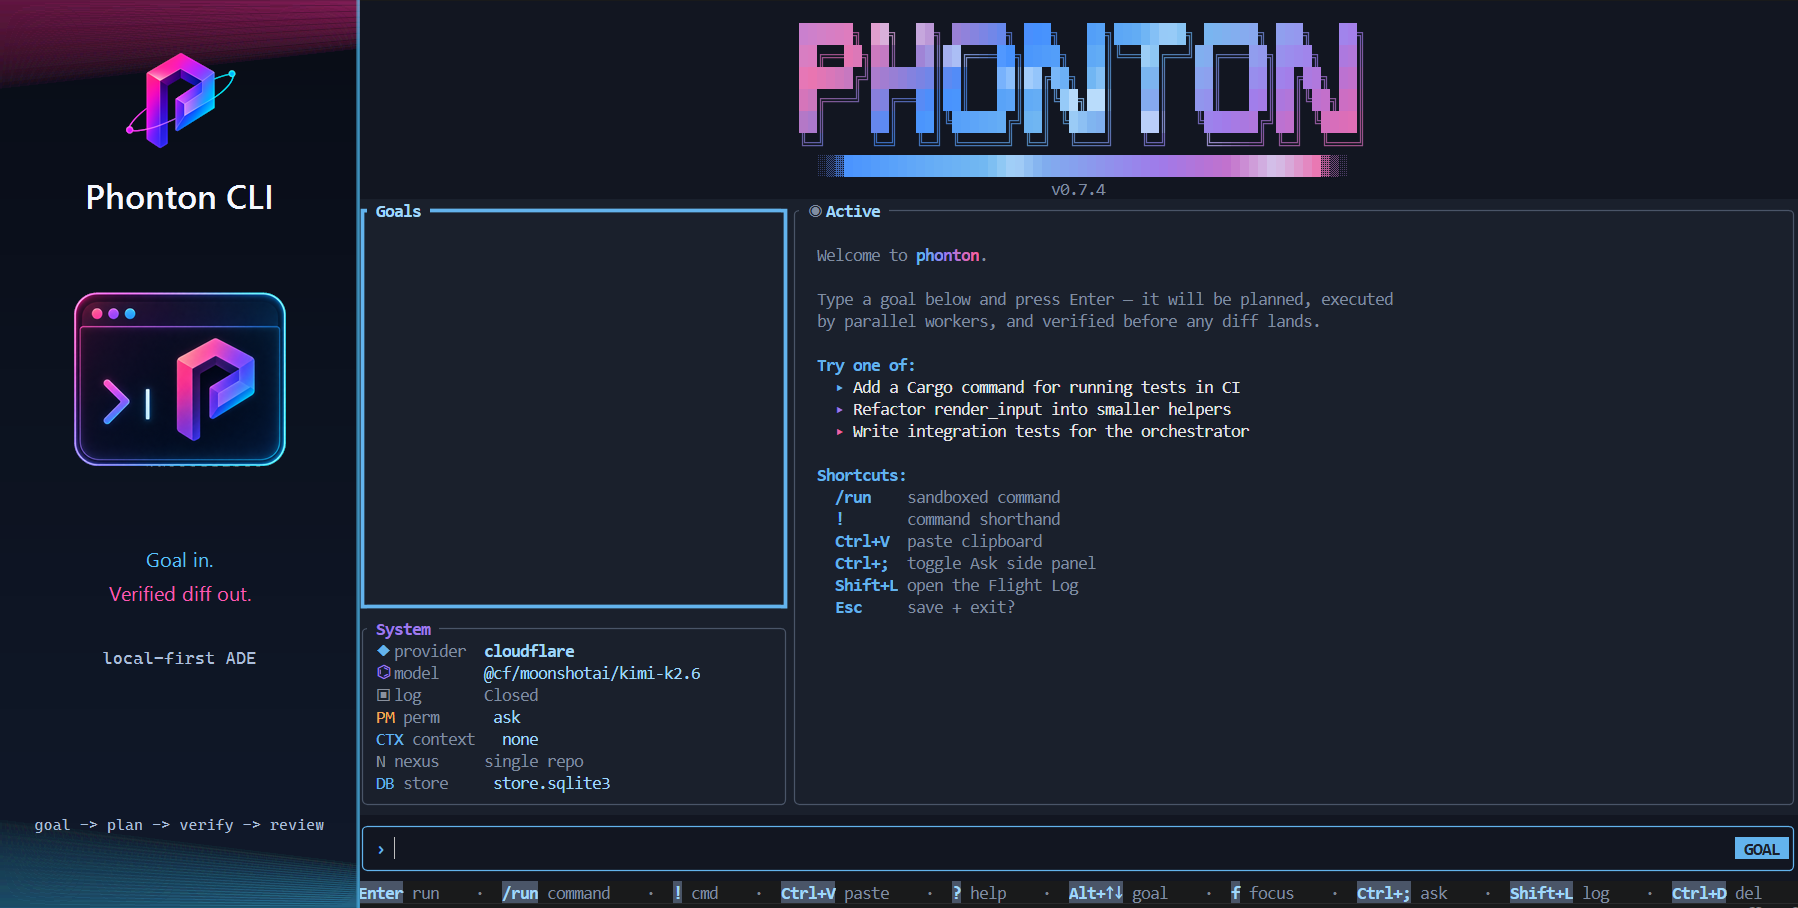
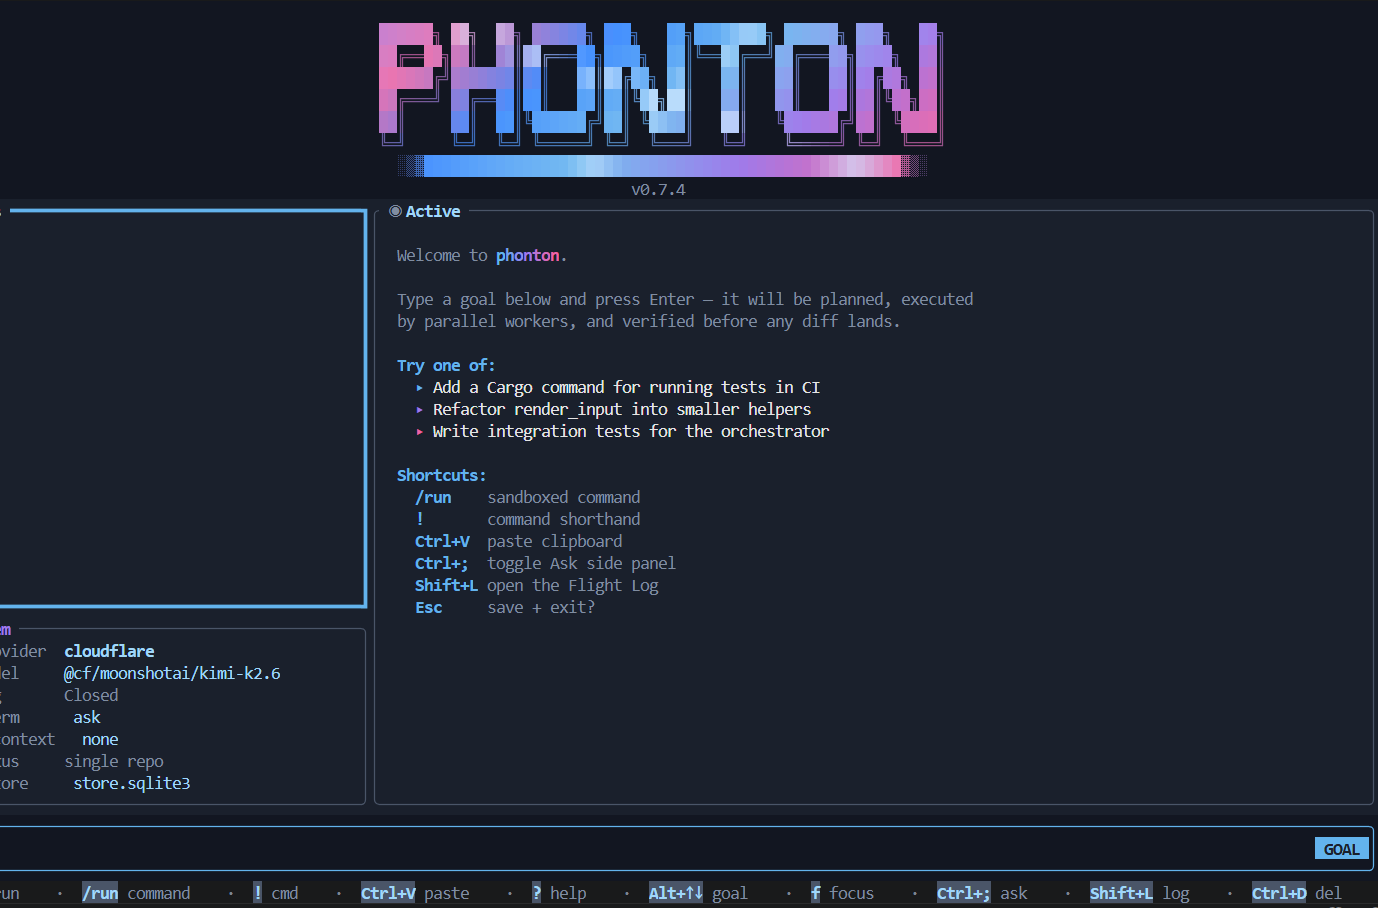
feat(cli): pixel marks for README and npm (v0.21.2)
Ship the new CLI glyph and a TUI-only hero. Splash remains ANSI Shadow.

diff --git a/README.md b/README.md
@@ -2,7 +2,7 @@
   <img src="assets/readme/phonton-cli-logo.png" width="128" alt="Phonton CLI logo">
 </p>
 
-<h1 align="center">Phonton CLI - v0.21.1</h1>
+<h1 align="center">Phonton CLI - v0.21.2</h1>
 
 <p align="center">
   <strong>A local-first ADE for verified, accountable code changes.</strong><br>
@@ -13,7 +13,7 @@
 <p align="center">
   <a href="https://github.com/phonton-dev/phonton-cli/actions/workflows/ci.yml"><img alt="CI Status" src="https://github.com/phonton-dev/phonton-cli/actions/workflows/ci.yml/badge.svg"></a>
   <a href="https://github.com/phonton-dev/phonton-cli/stargazers"><img alt="GitHub stars" src="https://img.shields.io/github/stars/phonton-dev/phonton-cli?style=flat&label=stars&color=ff69b4"></a>
-  <img alt="release" src="https://img.shields.io/badge/release-v0.21.1-6c63ff">
+  <img alt="release" src="https://img.shields.io/badge/release-v0.21.2-6c63ff">
   <img alt="license" src="https://img.shields.io/badge/license-MIT%20OR%20Apache--2.0-blue">
 </p>
 

diff --git a/CHANGELOG.md b/CHANGELOG.md
@@ -4,6 +4,12 @@ All notable Phonton CLI release changes should be documented here.
 
 This project follows pre-1.0 SemVer: minor versions may still include breaking changes while the public API and CLI surface settle.
 
+## 0.21.2 - Pixel marks
+
+### Changed
+
+- README and npm package logos use the pixel CLI mark. The TUI splash is still ANSI Shadow.
+
 ## 0.21.1 - CostReceipt on the serve line
 
 ### Added

diff --git a/release-notes/v0.21.2.md b/release-notes/v0.21.2.md
@@ -1,0 +1,7 @@
+# phonton-cli v0.21.2
+
+## Marks
+
+README and the npm package now ship the pixel CLI mark. The TUI splash stays the ANSI Shadow wordmark.
+
+The hero screenshot is the idle TUI without the old 3D P marketing frame.
